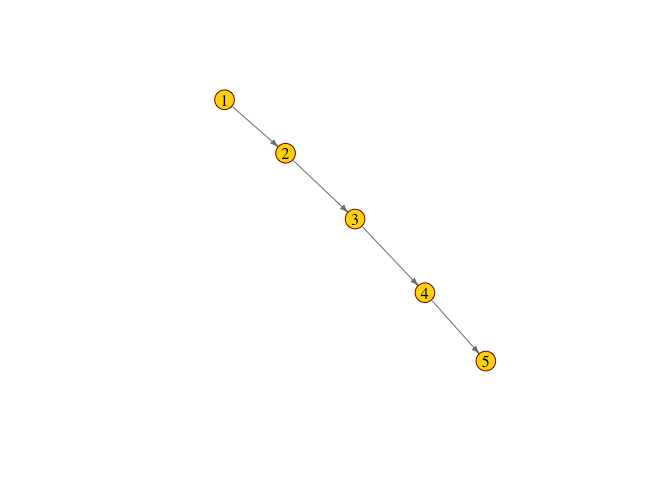
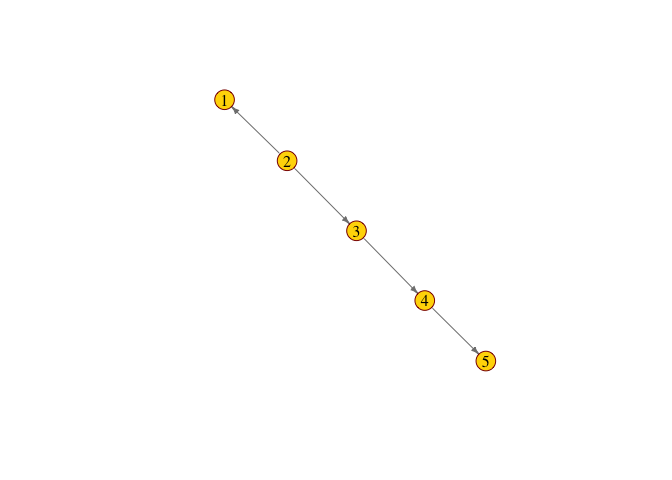
adding CI

diff --git a/README.md b/README.md
@@ -5,6 +5,10 @@
 
 <!-- badges: start -->
 
+[![Travis build
+status](https://travis-ci.org/USCbiostats/causnet.svg?branch=master)](https://travis-ci.org/USCbiostats/causnet)
+[![Codecov test
+coverage](https://codecov.io/gh/USCbiostats/causnet/branch/master/graph/badge.svg)](https://codecov.io/gh/USCbiostats/causnet?branch=master)
 <!-- badges: end -->
 
 The goal of causnet is to …
@@ -41,19 +45,10 @@ links.s
 #>   from to component
 #> 1    4  5         1
 #> 2    3  4         1
-#> 3    2  3         1
-#> 4    1  2         1
+#> 3    2  1         1
+#> 4    2  3         1
 
 netplot_jm(links.s)
-#> Loading required package: igraph
-#> 
-#> Attaching package: 'igraph'
-#> The following objects are masked from 'package:stats':
-#> 
-#>     decompose, spectrum
-#> The following object is masked from 'package:base':
-#> 
-#>     union
 ```
 
 <img src="man/figures/README-unnamed-chunk-2-1.png" width="100%" />
